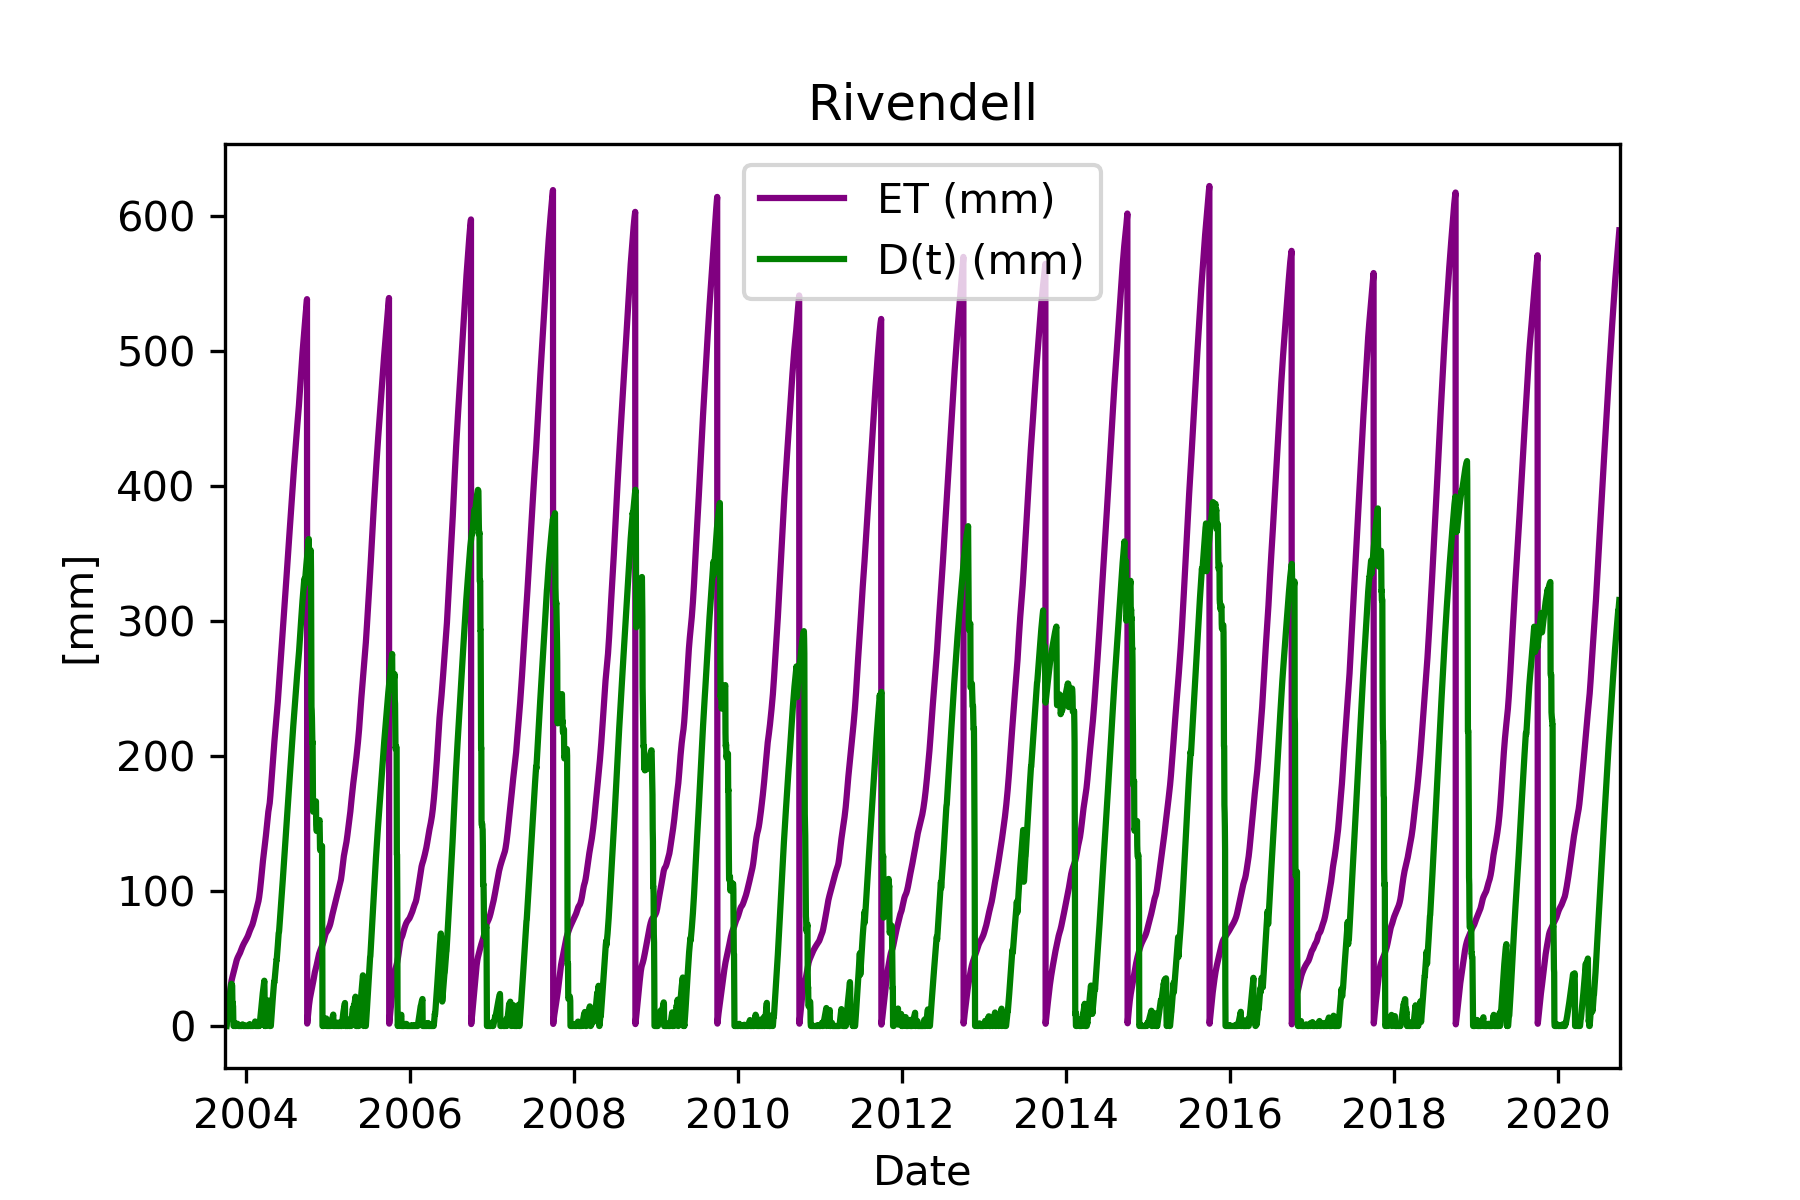
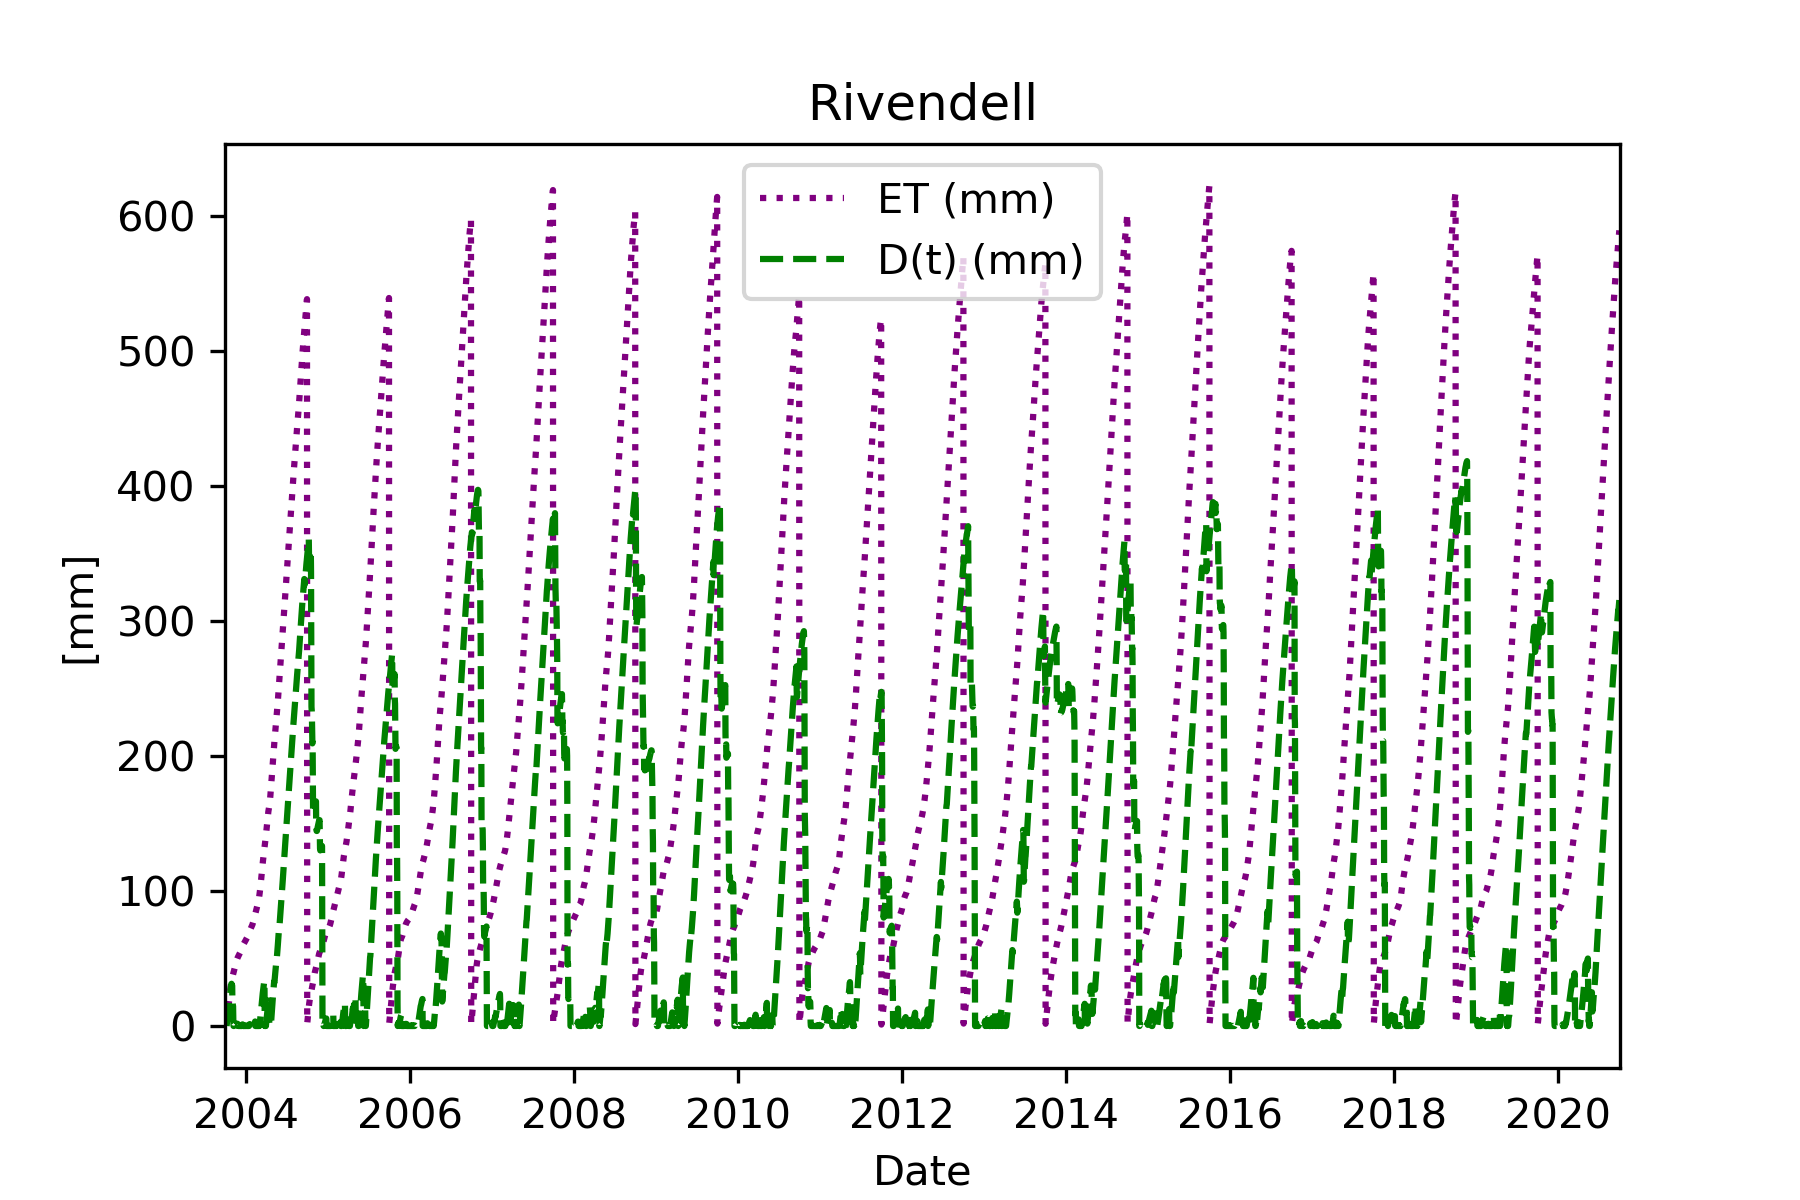
wateryear plotting and summer ET

Changed region(s): [[0.1244, 0.185, 0.9022, 0.8633], [0.4356, 0.1542, 0.4667, 0.185]]

diff --git a/ee_extractions.py b/ee_extractions.py
@@ -260,12 +260,18 @@ class StudyArea:
         df_wide = df_wide.set_index(pd.to_datetime(df_wide['date']))
         df_wide['wateryear'] = np.where(~df_wide.index.month.isin([10,11,12]),df_wide.index.year,df_wide.index.year+1)
         
+        # Get a df of just summer ET
+        df_wide['season'] = np.where(~df_wide.index.month.isin([6,7,8,9]),'summer','other')
+        df_summer = df_wide[df_wide['season'] == 'summer']
+        del df_wide['season']
+        
         df_wide['ET_cumulative'] = df_wide.groupby(['wateryear'])['ET'].cumsum()
         df_wide['P_cumulative'] = df_wide.groupby(['wateryear'])['P'].cumsum()
-        
+    
         df_total = pd.DataFrame()
         df_total['ET'] = df_wide.groupby(['wateryear'])['ET'].sum()
         df_total['P'] = df_wide.groupby(['wateryear'])['P'].sum()
+        df_total['ET_summer'] = df_summer.groupby(['wateryear'])['ET'].sum()
         df_total['wateryear'] = df_wide.groupby(['wateryear'])['wateryear'].first()
         self.wateryear_timeseries = df_wide
         self.wateryear_total = df_total
@@ -281,9 +287,12 @@ class StudyArea:
             'plot_P': True,
             'plot_D': True,
             'plot_ET': False,
+            'plot_ET_dry': False,
             'color_P': '#b1d6f0',
             'color_D': 'black',
             'color_ET': 'purple',
+            'markeredgecolor': 'black',
+            'linestyle_P':'-',
             'linestyle_D': '-',
             'linestyle_ET': '-',
             'xmin': '2003-10-01',
@@ -292,15 +301,15 @@ class StudyArea:
             'dpi': 300,
             'figsize': (6,4),
             'xlabel': 'Date',
-            'ylabel': '[mm]'
-
+            'ylabel': '[mm]',
+            'twinx': False
             }
-        plot_kwargs = { **default_plotting_kwargs, **plot_kwargs}
-        
+        plot_kwargs = {**default_plotting_kwargs, **plot_kwargs}
+
+        fig, ax = plt.subplots(dpi=plot_kwargs['dpi'], figsize = plot_kwargs['figsize'])
+        if title is not None: ax.set_title(title) 
+              
         if kind == 'timeseries':
-            fig, ax = plt.subplots(dpi=plot_kwargs['dpi'], figsize = plot_kwargs['figsize'])
-            if title is not None:
-                ax.set_title(title)
             if plot_kwargs['plot_P']:
                 df_wy = self.wateryear_timeseries
                 df_wy['date'] = pd.to_datetime(df_wy['date'])
@@ -313,15 +322,31 @@ class StudyArea:
                 df_d = self.deficit_timeseries
                 df_d['date'] = pd.to_datetime(df_d['date'])
                 ax.plot(df_d['date'], df_d['D'], plot_kwargs['linestyle_D'], color=plot_kwargs['color_D'], label='D(t) (mm)')
-
             ax.set_xlim(pd.to_datetime(plot_kwargs['xmin'], exact = False), pd.to_datetime(plot_kwargs['xmax'], exact = False))
-            ax.set_xlabel(plot_kwargs['xlabel'])
-            ax.set_ylabel(plot_kwargs['ylabel'])
-            if plot_kwargs['legend']: ax.legend(loc = 'best')
 
-            return fig
+        elif kind == 'wateryear':
+            #default_plotting_kwargs_2 = {'plot_D':False, 'plot_ET':True, 'plot_P': True, 'linestyle_P':'o', 'linestyle_ET':'o', 'xmin':2004, 'xmax':2020}
+            #default_plotting_kwargs = { **default_plotting_kwargs, **default_plotting_kwargs_2}
+            #plot_kwargs = { **default_plotting_kwargs, **plot_kwargs}
+
+            df = self.wateryear_total
+            if plot_kwargs['plot_P']:
+                ax.plot(df['wateryear'], df['P'], plot_kwargs['linestyle_P'], color = plot_kwargs['color_P'], markeredgecolor = plot_kwargs['markeredgecolor'], label = 'WY P (mm)')
+            if plot_kwargs['twinx']:
+                ax2 = ax.twinx()
+                ax2.set_ylabel('ET (mm)', color = plot_kwargs['color_ET'])
+            else: ax2 = ax
+            if plot_kwargs['plot_ET']:
+                ax2.plot(df['wateryear'], df['ET'], plot_kwargs['linestyle_ET'], color = plot_kwargs['color_ET'], markeredgecolor = plot_kwargs['markeredgecolor'], label = r'$\mathrm{ET}_{wy}\/\mathrm{(mm)}$')
+            if plot_kwargs['plot_ET_dry']:
+                ax2.plot(df['wateryear'], df['ET_summer'], ':o', color = plot_kwargs['color_ET'],markeredgecolor = plot_kwargs['markeredgecolor'], label = r'$\mathrm{ET}_{dry}\/\mathrm{(mm)}$')
+        ax.set_xlim(plot_kwargs['xmin'], plot_kwargs['xmax'])
+        ax.set_xlabel(plot_kwargs['xlabel'])
+        ax.set_ylabel(plot_kwargs['ylabel'])
+        if plot_kwargs['legend']: ax.legend(loc = 'best')
         
-    
+        return fig
+            
     def describe(self):
         """
         Print statements describing StudyArea attributes and deficit parameters, if deficit was calculated.

diff --git a/testing.py b/testing.py
@@ -7,7 +7,8 @@ import pandas as pd
 import numpy as np
 import datetime
 ee.Initialize()
-
+import matplotlib
+import matplotlib.pyplot as plt
 import ee_extractions as ee_tools
 
 # These are the coordinates for the site "Rivendell"
@@ -21,14 +22,27 @@ gage = [11475560]
 rivendell = ee_tools.StudyArea(coords, layers)
 #rivendell.get_feature()
 print(rivendell.description)
+print(rivendell.wateryear_timeseries)
+print(rivendell.wateryear_total)
 
-kwargs = {'plot_ET': True}
-fig = rivendell.plot(kind='timeseries', title = 'Rivendell', **kwargs)
-fig.savefig('timeseries.png')
+wytotal = rivendell.wateryear_total
+print(type(wytotal.wateryear))
 
-kwargs = {'plot_ET': True, 'plot_P': False, 'color_D': 'green'}
-fig = rivendell.plot(kind='timeseries', title = 'Rivendell', **kwargs)
-fig.savefig('timeseries_2.png')
+#kwargs = {'plot_ET': True}
+##fig = rivendell.plot(kind='timeseries', title = 'Rivendell', **kwargs)
+#fig.savefig('timeseries.png')
+
+#kwargs = {'plot_ET': True, 'plot_P': False, 'color_D': 'green', 'linestyle_D': '--', 'linestyle_ET':':'}
+#fig = rivendell.plot(kind='timeseries', title = 'Rivendell', **kwargs)
+#fig.savefig('timeseries_2.png')
+
+kwargs = {'plot_ET': True, 'plot_ET_dry':True, 'xmin':2004, 'xmax':2020, 'linestyle_ET':'-o', 'linestyle_P':'-o', 'twinx': True, 'legend':False}
+fig = rivendell.plot(kind='wateryear', title = 'Rivendell', **kwargs)
+fig.savefig('timeseries_3.png')
+
+df = rivendell.wateryear_total
+
+
 #print(rivendell.wateryear_timeseries)
 #print(rivendell.wateryear_total)
 #print(rivendell.smax)
